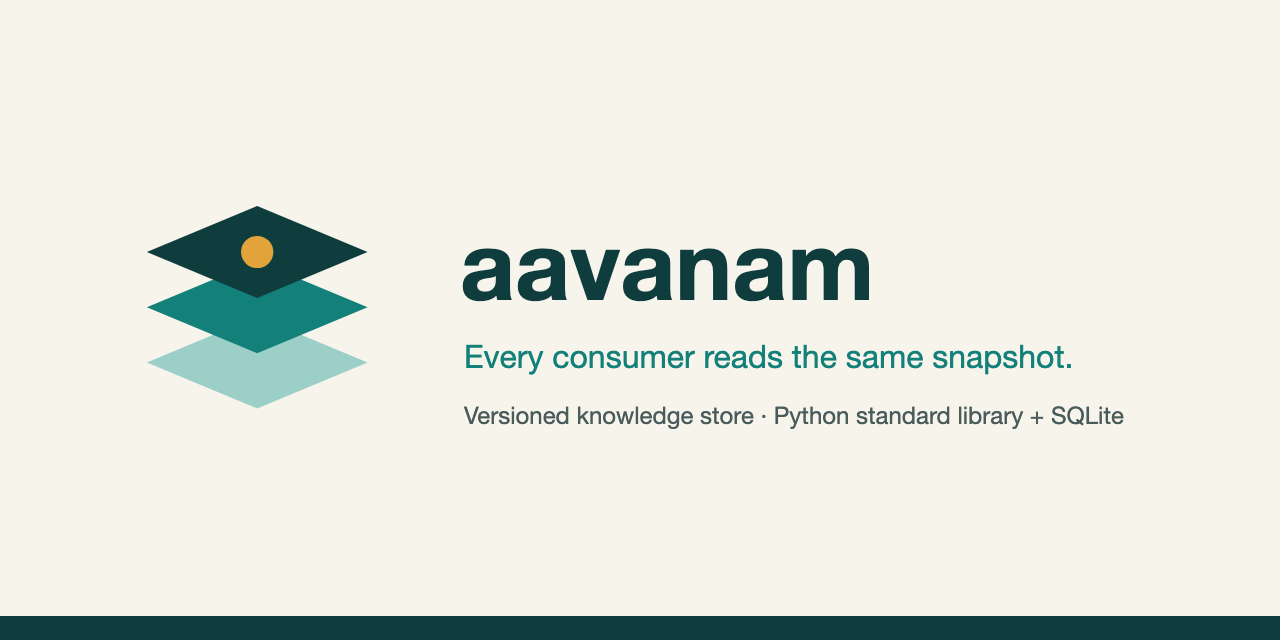
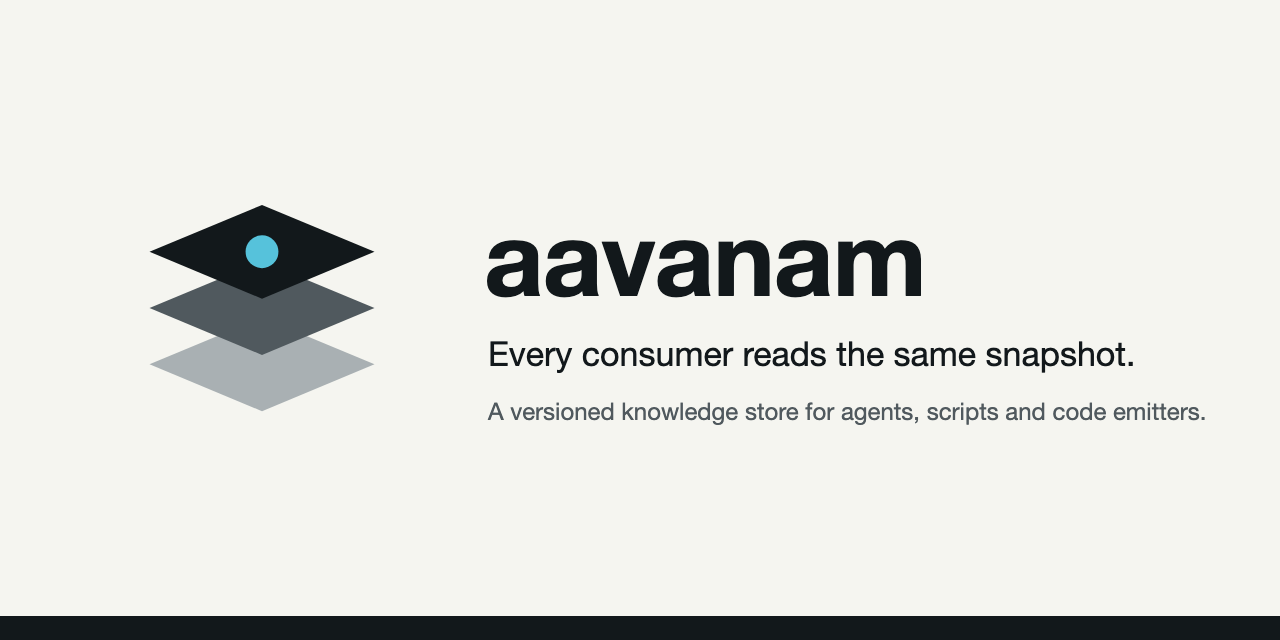
Align the brand with the entelos and groundgate palette
Use the shared neutral base (ink and paper) and IBM Plex. Make the
sheets of the mark neutral, and give Aavanam one accent, Seal, for the
lock dot only.

Remove "Python standard library + SQLite" from the social preview,
because it describes only the current reference implementation. The
announcement says that the spec does not fix a language or a storage
engine.

Refs #51

diff --git a/docs/announcement.md b/docs/announcement.md
@@ -4,7 +4,7 @@ Status: draft. Nothing in this file is posted. The owner approves each outreach 
 
 ## Short form
 
-> Aavanam 0.1.0 is out. It's a small versioned knowledge store: put a document, a table and the evidence between them into one immutable snapshot, and your chat agent, your scripts and your code generator all read the same bytes. Each run can lock the exact inputs it used. Spec first, 400 conformance vectors, reference implementation in plain Python and SQLite. https://github.com/mohanraj00/aavanam
+> Aavanam 0.1.0 is out. It's a small versioned knowledge store: put a document, a table and the evidence between them into one immutable snapshot, and your chat agent, your scripts and your code generator all read the same bytes. Each run can lock the exact inputs it used. Spec first, 400 conformance vectors, and a small reference implementation you can read end to end. https://github.com/mohanraj00/aavanam
 
 ## Long form
 
@@ -20,7 +20,7 @@ A few things it deliberately does not do:
 - It doesn't guess. Search never fills in a missing value, and "unknown" never turns into a default.
 - It doesn't claim more than it knows. A lock is complete over the references it declares, and says so.
 
-0.1.0 is a first marker, not a product. The 16 contract documents are drafts. There are 400 conformance vectors, and the reference implementation passes all of them; a null implementation fails 399 of them, which is the point. The reference store is the Python standard library over SQLite, so you can read every line of it in an afternoon.
+0.1.0 is a first marker, not a product. The 16 contract documents are drafts. There are 400 conformance vectors, and the reference implementation passes all of them; a null implementation fails 399 of them, which is the point. The spec does not fix a language or a storage engine. The 0.1.0 reference store happens to be the Python standard library over SQLite, so you can read every line of it in an afternoon.
 
 The README has a short example that stores a short manual and a table, reads them from an agent and a script, and locks a run. It runs in the test suite, so it stays true.
 

diff --git a/docs/brand/README.md b/docs/brand/README.md
@@ -1,6 +1,6 @@
 # Brand kit
 
-The mark shows three stacked sheets: the versions of a collection. The dot on the top sheet is the lock: one exact point that a run can name.
+The mark shows three stacked sheets: the versions of a collection. The sheets use only the neutral ink tones. The dot on the top sheet is the lock: one exact point that a run can name.
 
 ## Files
 
@@ -24,14 +24,20 @@ The owner uploads the PNG in the repository settings. That upload is an outreach
 
 ## Palette
 
-| Name | Light background | Dark background | Use |
-|---|---|---|---|
-| Ink | `#0F3D3E` | `#E8F1EF` | The top sheet, the name and the body text. |
-| Teal | `#14807A` | `#4FB8AE` | The middle sheet and the tagline. |
-| Mist | `#9CCFC8` | `#2E6F69` | The bottom sheet. |
-| Amber | `#E3A33B` | `#F2B84B` | The lock dot. Use it only for one small accent. |
-| Paper | `#F7F4EC` | `#0E1A1B` | The background. |
-| Slate | `#4A5B5B` | `#A9B8B6` | Secondary text. |
+Aavanam uses the same neutral base as the sibling projects entelos and groundgate. Each project in the family owns one accent. The accent of Aavanam is Seal, and the mark uses it only for the lock dot. Seal is a different hue from the entelos Telos green and the groundgate evidence yellow.
+
+| Name | Hex | Use |
+|---|---|---|
+| Ink 900 | `#12181B` | Text on paper. The top sheet on light. The dark ground. |
+| Ink 500 | `#50595E` | Secondary text. The middle sheet on light, the bottom sheet on dark. |
+| Ink 300 | `#A9B0B3` | The bottom sheet on light, the middle sheet on dark. Not for text on paper. |
+| Line 200 | `#D5D9D8` | Hairline borders. Never text. |
+| Paper 50 | `#F5F5F0` | The light ground. |
+| Light on dark | `#EEF0EC` | Text on ink. The top sheet on dark. |
+| Seal | `#56C2DB` | The lock dot on the ink top sheet (light mark). |
+| Seal deep | `#0B6E8A` | The lock dot on the light top sheet (dark mark). Links on paper. |
+
+The design canvas of this kit is a private Claude Design artifact of the owner. The SVG files in this folder are the source of record.
 
 ## Type
 
